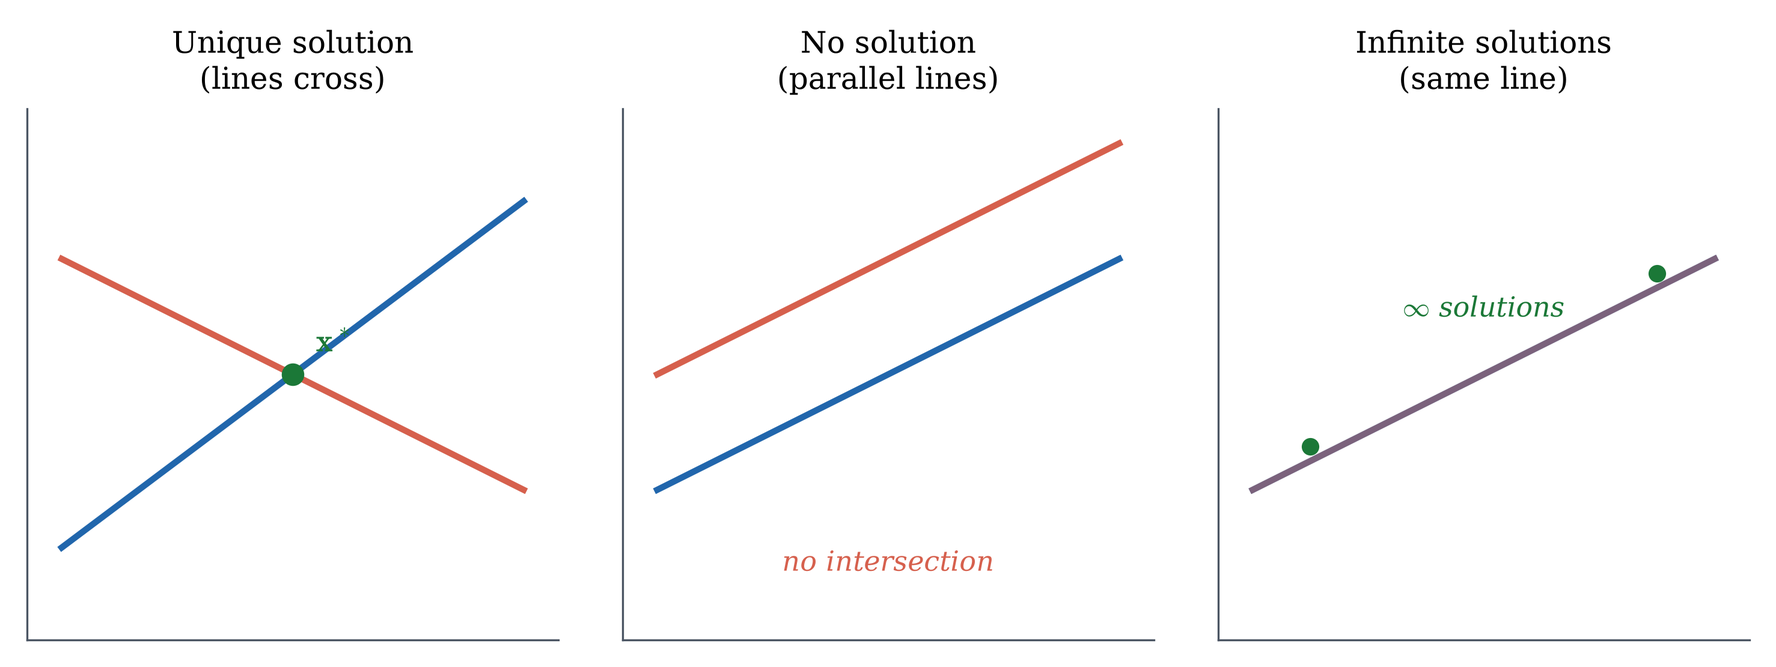
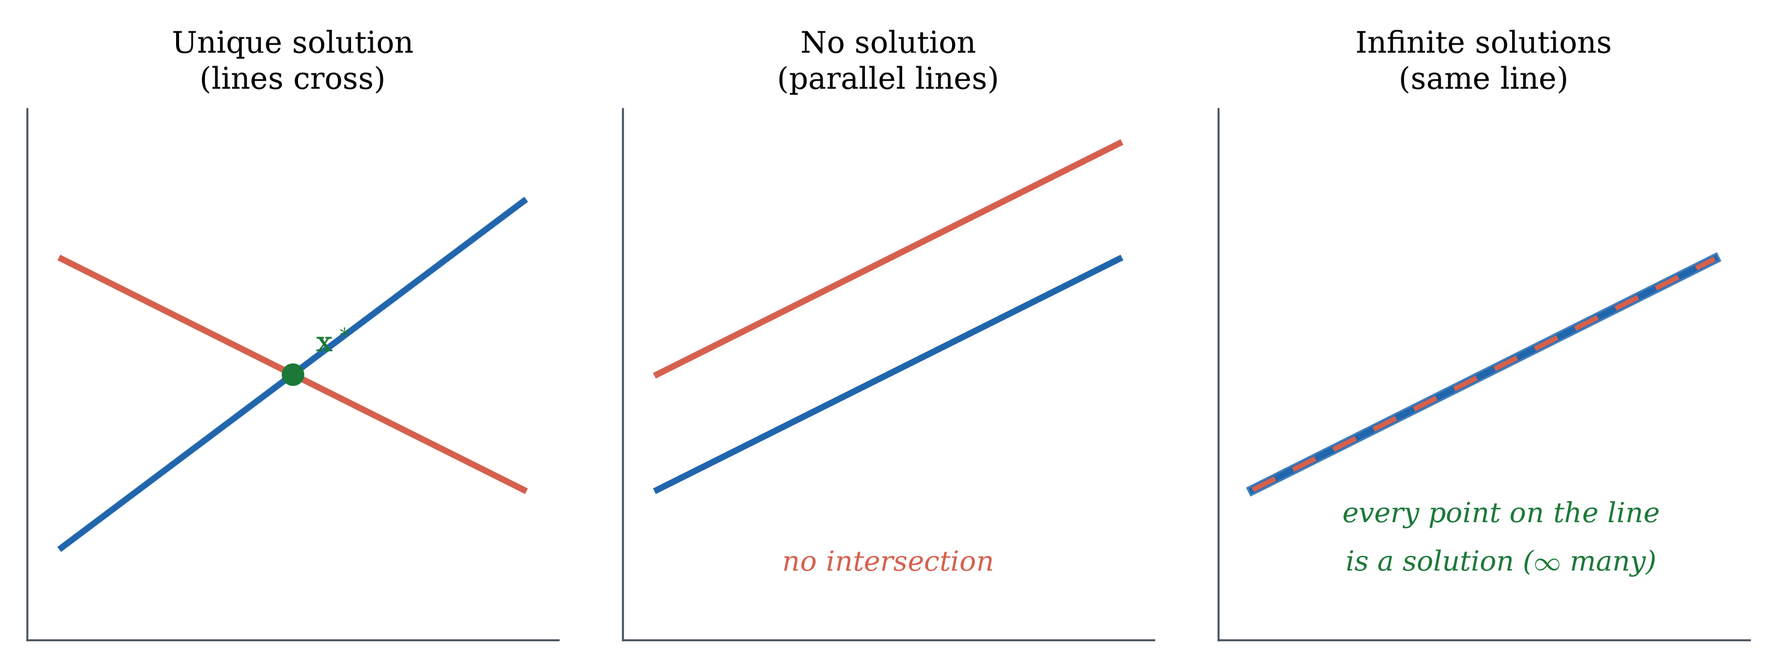
Republish Unit 2: L05 in Ax=b, L06's stability derived, two figures corrected
Instructor review of L05 and L06 slide by slide. The substance of the change is
that claims are now derived rather than stated.

L06's stability section went from four slides of assertion to nine of
computation. The 2x2 inverse formula carries it: det = 0.001, so 1/det = 1000,
so the inverse has entries near 1000 while the matrix has entries near 1; one
matrix-vector product then shows a 0.001 nudge arriving as a change of 1. The
Celsius/Fahrenheit slide previously claimed weights of +500 and -499 from
nowhere and now computes them, showing the Celsius coefficient flipping sign
while the predictions barely move.

Condition number is demoted to an EXPLORE aside. It is in MML at 7.1 p.230, but
defined through singular values from 4.5, which this course does not reach until
L07-L08; the slides had been quoting a value and a rule of thumb students had no
reading for. The mechanism is taught with the determinant instead, which lives
in Ch 2.6 where L06's reading already points.

L05 is rewritten in A x = b. It had drifted into the regression notation X w = y
from L04, which is the wrong vocabulary for a linear system, and never said what
the unknown was or why it is a single number.

Two figures were wrong, not merely unclear. The three-outcomes figure marked two
points for the infinite-solutions case, teaching "two solutions" where the answer
is a whole line, and the points were plotted 0.125 above the line they were meant
[…]

diff --git a/slides/math-for-ds-unit02.html b/slides/math-for-ds-unit02.html
@@ -88,7 +88,7 @@
 <tr><td>19</td><td>21</td><td>20</td></tr>
 </table>
 <ul>
-<li class="fragment">Written as equations: \(x = 19\), \(x = 21\), \(x = 20\). <strong>No single number satisfies all three.</strong></li>
+<li class="fragment">There is one unknown &mdash; your age. Call it \(x\). Each guess is a claim about that one number: \(x = 19\), \(x = 21\), \(x = 20\). <strong>No single number satisfies all three.</strong></li>
 <li class="fragment">You cannot be right for everyone. You can only be <strong>wrong by as little as possible</strong>.</li>
 <li class="fragment">You'd probably say <strong>the average</strong>: \(x^* = \frac{19+21+20}{3} = 20\) — the <strong>best compromise</strong>.</li>
 </ul>
@@ -679,17 +679,18 @@ DALL-E prompt for fig-2-06-schedule-conflict:
 <!-- S35: A 2×2 system — two friends, one restaurant -->
 <section>
 <h4>Example: two equations, two unknowns</h4>
-<p>You and a friend are splitting a restaurant bill. You ordered differently:</p>
+<p>You and a friend eat at the same taco place. Two receipts:</p>
 <ul>
-<li>You: 1 taco + 1 drink = $5</li>
-<li>Friend: 1 taco − 1 drink = $1 (friend paid less for just a taco)</li>
+<li>You: <strong>1 taco + 1 drink = $5</strong></li>
+<li>Friend: <strong>2 tacos + 1 drink = $8</strong></li>
 </ul>
+<p class="fragment">Let \(x\) = price of a taco, \(y\) = price of a drink. Each receipt is one equation:</p>
 <div class="fragment">
-\[\begin{cases} x + y = 5 \\ x - y = 1 \end{cases}\]
-Add: \(2x = 6 \Rightarrow x = 3\). Substitute: \(y = 2\).
+\[\begin{cases} x + y = 5 \\ 2x + y = 8 \end{cases}\]
+<p>Subtract the first from the second: \(x = 3\). Put that back: \(y = 2\).</p>
 </div>
-<p class="fragment">Taco costs $3, drink costs $2. <strong>One exact solution</strong>.</p>
-<aside class="notes">"Two equations, two unknowns — and they agree on one answer. But what if the equations conflict? That's the question we'll explore."</aside>
+<p class="fragment">Taco $3, drink $2. <strong>One exact solution.</strong></p>
+<aside class="notes">"Both lines are things you could actually be handed at a counter. Subtracting one receipt from the other cancels the drink and leaves one taco — that is elimination, and they have just done it without being told the name."</aside>
 </section>
 
 <!-- S36: Three possibilities -->
@@ -722,10 +723,14 @@ DALL-E prompt for fig-2-07-three-cases:
 <section>
 <h4>Quick check</h4>
 <div class="quickcheck">
-What if the second equation were \(x + y = 10\) instead of \(x - y = 1\)?
+A third friend orders <strong>exactly what you ordered</strong> &mdash; 1 taco + 1 drink &mdash;
+and the register charges <strong>$10</strong>.
 <br/>\(\begin{cases} x + y = 5 \\ x + y = 10 \end{cases}\)
 </div>
-<p class="fragment"><strong>No solution</strong> — \(x + y\) can't be both 5 and 10. The equations are contradictory (parallel lines).</p>
+<p class="fragment"><strong>No solution.</strong> \(x + y\) cannot be both 5 and 10.
+The same order rang up two different totals, so the two receipts contradict each other &mdash;
+parallel lines, no intersection.</p>
+<aside class="notes">"This one is worth a beat: it is not that the maths failed. The data is inconsistent, and the geometry is telling you so."</aside>
 </section>
 
 <!-- S38: Column space — what the system can produce -->
@@ -787,35 +792,87 @@ If every row of \(A\) has last entry zero, what must be true about \(\mathbf{b}\
 
 <!-- S42: Overdetermined revisited -->
 <section>
-<h4>Overdetermined systems: putting it together</h4>
-<p>Back to the age-guessing problem: \(x = 19, x = 21, x = 20\).</p>
-<div>
-\[X = \begin{bmatrix}1\\1\\1\end{bmatrix}, \quad \mathbf{y} = \begin{bmatrix}19\\21\\20\end{bmatrix}\]
-Column space = the line \((c, c, c)\). But \(\mathbf{y} = (19, 21, 20)\) is NOT on that line.
+<h4>Putting it together: writing it as \(A\mathbf{x} = \mathbf{b}\)</h4>
+<p>Back to the very first problem of this unit. Three friends guess your age: \(19,\;21,\;20\).</p>
+<div class="fragment">
+<p><strong>What is unknown?</strong> One thing &mdash; your age, \(x\).
+One unknown quantity, so \(x\) is a <strong>single number</strong>, not a vector.</p>
+<p>Each guess is a claim about that number, so each guess is one equation:</p>
+\[1\cdot x = 19,\qquad 1\cdot x = 21,\qquad 1\cdot x = 20\]
+<p>The coefficient is \(1\) every time: each friend is guessing \(x\) itself, unscaled.</p>
 </div>
-<ul>
-<li class="fragment">\(\mathbf{y}\) is <strong>outside</strong> the column space → no exact solution.</li>
-<li class="fragment">Best fit: <strong>project \(\mathbf{y}\) onto the column space</strong> → get \((20, 20, 20)\).</li>
-<li class="fragment">This is the normal equation from L04: \(x^* = 20\) (the mean).</li>
-</ul>
-<div class="key-question fragment">Column space + projection = the complete picture of least squares.</div>
-<aside class="notes">"Now we have the full story. The column space tells you what's reachable. If the target isn't reachable, project. The projection gives the best fit. The normal equation computes it. Everything from L03 and L04 snaps together."</aside>
+<div class="fragment">
+<p>Stack the coefficients into \(A\), the guesses into \(\mathbf{b}\):</p>
+\[\underbrace{A = \begin{bmatrix}1\\1\\1\end{bmatrix}}_{3\times 1},\qquad
+  \underbrace{\mathbf{b} = \begin{bmatrix}19\\21\\20\end{bmatrix}}_{3\times 1},
+  \qquad A\mathbf{x} = \mathbf{b}\]
+</div>
+<p class="fragment">\(A\) is \(3\times1\), so \(\mathbf{x}\) is \(1\times1\) &mdash; the shapes force
+what the story already said. <strong>Three equations, one unknown: overdetermined.</strong></p>
+<aside class="notes">"Why x is one number: there is one unknown thing in the world, your age. Then the shapes are forced. Keep A x = b — this is a linear system, not a prediction."</aside>
+</section>
+
+<section>
+<h4>Is the target even reachable?</h4>
+<p><strong>Recall:</strong> \(\mathrm{col}(A)\) is every vector \(A\mathbf{x}\) the system can
+produce &mdash; everything reachable, and nothing else.</p>
+<div class="fragment">
+<p>For our \(A\), one column and one unknown:</p>
+\[A\mathbf{x} = x\begin{bmatrix}1\\1\\1\end{bmatrix} = \begin{bmatrix}x\\x\\x\end{bmatrix}\]
+<p>\(\mathrm{col}(A)\) is <strong>every vector whose three entries are equal</strong> &mdash;
+a line through the origin in \(\R^3\) along \((1,1,1)\).</p>
+</div>
+<div class="key-question fragment">Is \(\mathbf{b} = (19,21,20)\) of that form?
+It would need \(19 = 21 = 20\). <strong>It is not.</strong><br>
+So \(\mathbf{b}\notin\mathrm{col}(A)\): no \(x\) satisfies all three equations.
+<em>That</em> is what "no exact solution" means here &mdash; not a rule, just three different numbers.</div>
+<aside class="notes">"Membership in the column space is checkable by eye for this A. b fails the check, so the system is inconsistent — and that is the whole reason we are about to project."</aside>
+</section>
+
+<section>
+<h4>So compute the projection &mdash; and watch what it turns out to be</h4>
+<p>The closest reachable point is the projection of \(\mathbf{b}\) onto \(\mathrm{col}(A)\).
+That is the L03 formula, with \(A\) in place of the direction vector:</p>
+<div class="fragment">
+\[A^\top A = 1+1+1 = 3,\qquad A^\top\mathbf{b} = 19+21+20 = 60\]
+\[x^* = \frac{A^\top\mathbf{b}}{A^\top A} = \frac{60}{3} = \mathbf{20}
+\qquad\Rightarrow\qquad A x^* = \begin{bmatrix}20\\20\\20\end{bmatrix}\]
+</div>
+<div class="fragment">
+<p>Residual, and the perpendicularity check:</p>
+\[\mathbf{r} = \mathbf{b} - Ax^* = \begin{bmatrix}-1\\ 1\\ 0\end{bmatrix},
+\qquad A^\top\mathbf{r} = -1+1+0 = 0\ \checkmark\]
+</div>
+<div class="key-question fragment">\(x^* = 20\) is <strong>the average of 19, 21 and 20</strong>.
+The answer everyone's intuition reached for on the first slide of this unit
+<em>is</em> the orthogonal projection onto the column space. Now it is proved, not assumed.</div>
+<aside class="notes">"This closes the loop opened in L03. Mention that minimising S(x) = sum (x - b_i)^2 and setting the derivative to zero gives 3x = 60 as well — same answer by calculus, which is the route L04 took."</aside>
 </section>
 
 <!-- S43: The normal equation — geometric meaning -->
 <section>
-<h4>The normal equation means: residual ⊥ column space</h4>
-<div class="mathbox">
-\[X^\top(X\mathbf{w} - \mathbf{y}) = \mathbf{0}\]
-This says: the residual \(\mathbf{y} - X\mathbf{w}\) is perpendicular to every column of \(X\).
+<h4>That check you just did has a name &mdash; you already met it</h4>
+<p>You verified \(A^\top\mathbf{r} = 0\) as a sanity check. That is not a coincidence.
+Substitute \(\mathbf{r} = \mathbf{b} - A\mathbf{x}\):</p>
+\[A^\top(\mathbf{b} - A\mathbf{x}) = \mathbf{0}
+\qquad\Longleftrightarrow\qquad A^\top A\,\mathbf{x} = A^\top\mathbf{b}\]
+<div class="fragment">
+<p>In <strong>L04</strong> we derived the same equation, written in the regression names:
+\(X^\top X\mathbf{w} = X^\top\mathbf{y}\). Same object, two vocabularies:</p>
+<table style="margin:0.4em auto; border-collapse:collapse">
+<tr><td style="padding:3px 14px"><strong>solving a system</strong></td>
+    <td style="padding:3px 14px">\(A\mathbf{x} = \mathbf{b}\)</td>
+    <td style="padding:3px 14px">\(A\) = coefficients, \(\mathbf{x}\) = unknowns, \(\mathbf{b}\) = targets</td></tr>
+<tr><td style="padding:3px 14px"><strong>fitting a model</strong></td>
+    <td style="padding:3px 14px">\(X\mathbf{w} = \mathbf{y}\)</td>
+    <td style="padding:3px 14px">\(X\) = data, \(\mathbf{w}\) = weights, \(\mathbf{y}\) = observations</td></tr>
+</table>
 </div>
-<img src="../images/unit02/u2-L05-fig09-column-space-projection.png" alt="Column space projection in 3D" style="float:right; max-height:400px; max-width:45%; margin:0 0 0.5em 1em; border-radius:6px;">
-<ul>
-<li class="fragment" style="clear:none;">The residual has <strong>no component</strong> the model could explain.</li>
-<li class="fragment">Everything the model <em>can</em> do, it <em>has</em> done.</li>
-<li class="fragment">The leftover is pure noise — perpendicular to the model's reach.</li>
-</ul>
-<aside class="notes" style="clear:both;">"This is a beautiful result. The normal equation isn't just a formula — it's a geometric statement. It says: the best model uses up all its explanatory power. Whatever's left over is noise that no linear model can reduce."</aside>
+<div class="key-question fragment">We came back to it because <em>column space</em> is what L04 was missing.
+There we could write \(A^\top\mathbf{r} = 0\) but not say what \(\mathbf{r}\) was perpendicular
+<strong>to</strong>. Now we can: to everything the system can produce.
+The residual is the part of \(\mathbf{b}\) no choice of \(\mathbf{x}\) can reach.</div>
+<aside class="notes">"Say out loud that this is a return, not a new topic, and put the two notations side by side once — students hit both in the book and in every course after this one."</aside>
 </section>
 
 <!--
@@ -935,33 +992,91 @@ If \(\mathbf{b}\) lies in the column space of \(A\), what does \(A^+\mathbf{b}\)
 
 <!-- S52: When formulas break — nearly dependent columns -->
 <section>
-<h4>The stability problem</h4>
-<p>Consider two features that are <em>almost</em> identical:</p>
-<div>
+<h4>Why "almost identical columns" is a problem &mdash; compute it</h4>
+<p>Two features that are almost the same thing:</p>
 \[X = \begin{bmatrix} 1 & 1 \\ 1 & 1.001 \end{bmatrix}\]
-The columns are 99.9% the same. What happens?
+<p class="fragment">You already know the 2&times;2 inverse:
+\(\begin{bmatrix} a & b \\ c & d\end{bmatrix}^{-1} = \dfrac{1}{ad-bc}\begin{bmatrix} d & -b \\ -c & a\end{bmatrix}\)</p>
+<div class="fragment">
+\[\det X = (1)(1.001) - (1)(1) = \mathbf{0.001}\]
+\[X^{-1} = \frac{1}{0.001}\begin{bmatrix}1.001 & -1\\ -1 & 1\end{bmatrix}
+        = \begin{bmatrix}1001 & -1000\\ -1000 & 1000\end{bmatrix}\]
 </div>
-<ul>
-<li class="fragment">\(X^\top X\) is <strong>nearly singular</strong> — almost has determinant zero.</li>
-<li class="fragment">Change one data point by 0.001 → the solution moves <strong>1000&times; as far</strong>. Concretely: \(\mathbf{x}\) goes from \((1,1)\) to \((0,2)\), a shift of 1 in each entry from a nudge of 0.001.</li>
-<li class="fragment">The formula is <em>correct</em> but <strong>unreliable</strong>.</li>
-</ul>
-<div class="key-question fragment">A correct formula can still give garbage if the inputs are nearly dependent.</div>
-<aside class="notes">"This is like weighing yourself on a scale that changes by 10 pounds every time you shift your foot slightly. The scale is correct — it's just amplifying tiny differences. The same thing happens when your features are almost identical: the formula amplifies noise instead of finding a stable answer."</aside>
+<p class="fragment"><strong>Every entry of \(X\) is about 1. Every entry of \(X^{-1}\) is about 1000.</strong>
+That \(1/\det\) out front is the entire story.</p>
+<aside class="notes">"Nothing new here — this is the 2x2 inverse from high school. The point is where the thousand comes from: it is 1/0.001. Nearly identical columns make the determinant nearly zero, and one over nearly zero is huge."</aside>
+</section>
+
+<section>
+<h4>Watch one nudge travel through</h4>
+<p>Start from the answer \(\mathbf{x} = (1,1)\), so the data is</p>
+\[\mathbf{b} = X\mathbf{x} = (1+1,\; 1+1.001) = (2,\; 2.001)\]
+<p class="fragment">Now measure the second value slightly wrong &mdash; off by \(0.001\):</p>
+<div class="fragment">
+\[\Delta\mathbf{b} = \begin{bmatrix}0\\0.001\end{bmatrix},\qquad
+\Delta\mathbf{x} = X^{-1}\Delta\mathbf{b}
+= \begin{bmatrix}1001 & -1000\\ -1000 & 1000\end{bmatrix}\begin{bmatrix}0\\0.001\end{bmatrix}
+= \begin{bmatrix}-1\\ +1\end{bmatrix}\]
+</div>
+<p class="fragment">\(\mathbf{x}\) goes from \((1,1)\) to \(\mathbf{(0,2)}\).</p>
+<div class="key-question fragment">The input moved by <strong>0.001</strong>. The answer moved by <strong>1</strong>.
+That factor of 1000 is not a coincidence &mdash; it is \(1/\det X\).</div>
+<aside class="notes">"Do this multiplication with them on the board. It is one matrix times one vector. The 1000 in the answer is the same 1000 they just computed in the inverse."</aside>
+</section>
+
+<section>
+<h4>So why do we look at \(X^\top X\)?</h4>
+<p>With real data \(X\) is <em>tall</em> &mdash; there is no \(X^{-1}\). Least squares inverts
+\(X^\top X\) instead: \(\;\mathbf{x}^* = (X^\top X)^{-1}X^\top\mathbf{b}\).</p>
+<div class="fragment">
+\[X^\top X = \begin{bmatrix}2 & 2.001\\ 2.001 & 2.002001\end{bmatrix}\]
+\[\det(X^\top X) = (2)(2.002001) - (2.001)^2 = 4.004002 - 4.004001 = \mathbf{0.000001}\]
+</div>
+<p class="fragment">That is no accident: \(\det(X^\top X) = (\det X)^2 = (0.001)^2 = 10^{-6}\).</p>
+<div class="key-question fragment"><strong>Squaring the matrix squares the smallness of the determinant.</strong>
+\(0.001 \to 10^{-6}\): the thousand becomes a million.</div>
+<p class="fragment">The formula is <strong>correct</strong>. It is <strong>unreliable</strong> &mdash; and now you can see exactly where the unreliability enters.</p>
+<aside class="notes">"This answers the question a sharp student asks: why are we suddenly looking at X-transpose-X? Because that is the matrix least squares actually has to invert, and it carries the square of the problem."</aside>
 </section>
 
 <!-- S53: Real-world example of instability -->
 <section>
-<h4>Real-world instability</h4>
-<img src="../images/unit02/u2-L06-fig11-multicollinearity.png" alt="Multicollinearity: correlated features cause instability" style="float:right; max-height:350px; max-width:45%; margin:0 0 0.5em 1em; border-radius:6px;">
-<p>Imagine predicting house prices using:</p>
-<ul>
-<li>Feature 1: temperature in °C</li>
-<li>Feature 2: temperature in °F</li>
-</ul>
-<p class="fragment">These are linearly related: \(F = 1.8C + 32\). The columns of \(X\) are almost proportional.</p>
-<div class="applied fragment" style="clear:both;">Result: the normal equation produces weights like \(w_1 = +500, w_2 = -499\). The individual weights are <strong>meaningless</strong> — only their combination matters. Tiny noise → wildly different \(w_1, w_2\) values.</div>
-<aside class="notes">"This is called multicollinearity in statistics. It doesn't mean the prediction is bad — it means the individual weights can't be trusted. The model can't tell which feature is doing the work because they carry almost the same information."</aside>
+<h4>Real data does this to you: &deg;C and &deg;F</h4>
+<p>Predict something from temperature, and you record it twice &mdash; once in Celsius, once in Fahrenheit:</p>
+\[X = \begin{bmatrix} 1 & 12 & 53.6\\ 1 & 18 & 64.4\\ 1 & 25 & 77.0\\ 1 & 31 & 87.8\end{bmatrix}
+\qquad \mathbf{y} = \begin{bmatrix}2.1\\2.6\\3.4\\3.9\end{bmatrix}\]
+<p class="fragment">Because \(F = 1.8\,C + 32\), the third column is built from the other two:</p>
+<div class="fragment">
+\[\text{col}_3 = 32\cdot\text{col}_1 + 1.8\cdot\text{col}_2\]
+<p>Check the first row: \(32(1) + 1.8(12) = 32 + 21.6 = 53.6\). ✓ &nbsp; It holds for every row.</p>
+</div>
+<p class="fragment"><strong>The third feature carries no new information.</strong>
+\(\det(X^\top X) \approx 10^{-11}\) &mdash; singular for all practical purposes.</p>
+<aside class="notes">"Nobody sets out to add a useless column. You add temperature, someone else adds it in the other unit, and now your matrix is singular and nothing warns you."</aside>
+</section>
+
+<section>
+<h4>What that costs you &mdash; run it and see</h4>
+<p>Solve the normal equation as written:</p>
+\[\mathbf{w} = (0.913,\; 0.097,\; 0.000)\]
+<p class="fragment">Now change <em>one</em> Fahrenheit reading by <strong>0.1 of a degree</strong> &mdash;
+less than the width of a thermometer mark &mdash; and solve again:</p>
+<div class="fragment">
+\[\mathbf{w} = (-22.106,\; -1.189,\; +0.717)\]
+<p>The Celsius coefficient went from \(+0.097\) to \(-1.189\). It <strong>changed sign</strong>.</p>
+</div>
+<div class="fragment">
+<p>But look at what the two models actually <em>predict</em>:</p>
+\[\begin{array}{lcccc}
+\text{before} & 2.08 & 2.66 & 3.34 & 3.92\\
+\text{after}  & 2.10 & 2.63 & 3.33 & 3.94\\
+\hline
+\mathbf{y}    & 2.1 & 2.6 & 3.4 & 3.9
+\end{array}\]
+</div>
+<div class="key-question fragment">Both fit the data equally well. <strong>The predictions are pinned down; the individual
+weights are not.</strong> Never read a coefficient from a model whose columns are nearly dependent.</div>
+<aside class="notes">"This is the punchline of the whole lecture. The model is fine. The number you wanted to interpret is not."</aside>
 </section>
 
 <!--
@@ -971,45 +1086,72 @@ DALL-E prompt for fig-2-10-redundant-features:
 
 <!-- S54: The condition number -->
 <section>
-<h4>Condition number: how fragile is the system?</h4>
-<div class="mathbox">
-The <strong>condition number</strong> \(\kappa(A)\) measures how much small changes in data get amplified in the solution.
-<ul style="margin-top:0.5em;">
-<li>\(\kappa \approx 1\): stable — small changes in data → small changes in solution.</li>
-<li>\(\kappa \gg 1\): unstable — small changes in data → <strong>huge</strong> changes in solution.</li>
-</ul>
+<h4><span style="opacity:.6;font-size:.8em">EXPLORE &mdash; not examinable</span><br>This problem has a name</h4>
+<p>What we measured with \(\det\) has a standard measure called the
+<strong>condition number</strong> \(\kappa(A)\): how much a small change in the data
+can be amplified in the answer.</p>
+<div class="fragment">
+<p>MML defines it in <strong>&sect;7.1, p.230</strong>:</p>
+\[\kappa(A) = \frac{\sigma_{\max}(A)}{\sigma_{\min}(A)}\]
+<p>&mdash; a ratio of <em>singular values</em>, which we meet in <strong>L07&ndash;L08</strong>.
+So the definition is genuinely ahead of us today.</p>
 </div>
-<ul>
-<li class="fragment">Our \(X = \begin{bmatrix}1&1\\1&1.001\end{bmatrix}\) has \(\kappa \approx 4000\).</li>
-<li class="fragment">An error of 0.001 in the data could cause an error of \(0.001 \times 4000 = 4\) in the solution.</li>
-</ul>
-<div class="applied fragment">In Python: <code>np.linalg.cond(A)</code> tells you if you should worry. Condition number &gt; 1000? Be cautious.</div>
-<aside class="notes">"Think of the condition number as a sensitivity dial. Low condition number means the formula is trustworthy. High condition number means proceed with caution — the answer might change a lot if you measure slightly differently."</aside>
+<p class="fragment">Everything we needed this lecture, we got from \(\det\) and the \(2\times2\) inverse.
+The name is here so you recognise it when it returns in <strong>Week 8</strong>, where MML puts it.</p>
+<aside class="notes">"Say plainly: this is a real concept, it is in your book, and its definition needs machinery we do not have yet. We are not skipping it, we are sequencing it. In Python np.linalg.cond(A) computes it, and after L08 you will know what it is computing."</aside>
 </section>
 
 <!-- S55: What to do about instability -->
 <section>
-<h4>Three fixes for instability</h4>
+<h4>Three fixes &mdash; and what each one actually changes</h4>
+<p>The disease is always the same: \(\det(X^\top X)\) sits too close to zero,
+so \((X^\top X)^{-1}\) has enormous entries. Each fix attacks that directly.</p>
 <ol>
-<li class="fragment"><strong>Remove redundant features</strong> — if two columns are nearly identical, drop one.
-<div class="small-note">Check with <code>np.corrcoef()</code> — correlation near ±1 means redundancy.</div></li>
-<li class="fragment"><strong>Use better algorithms</strong> — QR decomposition instead of forming \(X^\top X\).
-<div class="small-note">This is what <code>np.linalg.lstsq</code> does internally — more numerically stable.</div></li>
-<li class="fragment"><strong>Add regularization</strong> — penalize large weights to keep them stable.
-<div class="small-note">Coming in Unit 5: Ridge and Lasso regression.</div></li>
+<li class="fragment"><strong>Drop one of the dependent columns.</strong> Delete &deg;F and keep &deg;C.
+You lose nothing &mdash; the column carried no information &mdash; and the determinant is no longer near zero.</li>
+<li class="fragment"><strong>Ridge: solve \((X^\top X + \lambda I)\mathbf{w} = X^\top\mathbf{y}\).</strong>
+Adding \(\lambda\) down the diagonal pushes the determinant away from zero.</li>
+<li class="fragment"><strong>Never form \(X^\top X\) at all</strong> (QR or SVD, what
+<code>np.linalg.lstsq</code> uses). If you do not square the matrix, you do not square the problem.</li>
 </ol>
-<div class="key-question fragment">The normal equation is the <em>starting point</em>, not the final tool. Real AI uses smarter methods — but they all solve the same projection problem.</div>
-<aside class="notes">"You won't need to implement QR decomposition by hand. But you should know it exists, and you should always check the condition number before trusting the normal equation. In practice, sklearn handles this for you — but understanding why it matters makes you a better data scientist."</aside>
+<aside class="notes">"Three fixes, one target. Ask the class which one they would reach for with the temperature data — dropping the column is obviously right there, and that is the point: the fix depends on why the columns are dependent."</aside>
 </section>
 
-<!-- S56: Quick check — stability -->
 <section>
-<h4>Quick check</h4>
+<h4>Why ridge works &mdash; watch the determinant</h4>
+<p>Our \(X^\top X = \begin{bmatrix}2 & 2.001\\ 2.001 & 2.002001\end{bmatrix}\), with \(\det = 10^{-6}\).
+Add \(\lambda\) down the diagonal and recompute:</p>
+<table style="margin:0.5em auto; border-collapse:collapse; font-size:0.95em">
+<tr><th style="padding:4px 20px">\(\lambda\)</th><th style="padding:4px 20px">\(\det(X^\top X+\lambda I)\)</th><th style="padding:4px 20px">size of the inverse</th></tr>
+<tr><td style="text-align:center">0</td><td style="text-align:center">\(10^{-6}\)</td><td style="text-align:center">4,000,000</td></tr>
+<tr class="fragment"><td style="text-align:center">0.001</td><td style="text-align:center">0.004</td><td style="text-align:center">1,000</td></tr>
+<tr class="fragment"><td style="text-align:center">0.01</td><td style="text-align:center">0.040</td><td style="text-align:center">100</td></tr>
+<tr class="fragment"><td style="text-align:center">0.1</td><td style="text-align:center">0.410</td><td style="text-align:center">10</td></tr>
+</table>
+<div class="key-question fragment"><strong>Ten times more \(\lambda\), ten times smaller inverse.</strong>
+That is the entire mechanism &mdash; and the cost is that you are no longer solving the original problem.
+Choosing \(\lambda\) is the trade, and it comes back in <strong>L19</strong>.</div>
+<aside class="notes">"Do the lambda = 0.001 row with them. The diagonal goes from 2 and 2.002001 to 2.001 and 2.003001, and the determinant jumps four-thousand-fold. Nothing subtle is happening — it is the 2x2 determinant they already know."</aside>
+</section>
+
+<section>
+<h4>Quick check &mdash; and its proof</h4>
 <div class="quickcheck">
-If two columns of \(X\) are <em>exactly</em> identical (not just close), what happens to \(X^\top X\)?
+Two columns of \(X\) are <strong>exactly</strong> identical &mdash; the same feature entered twice.
+What happens to \(X^\top X\), and why?
 </div>
-<p class="fragment"><strong>It becomes singular</strong> — determinant is zero, no inverse exists. The normal equation has no unique solution.</p>
-<div class="applied fragment">This is the extreme case of instability. Nearly identical = unstable. Exactly identical = formula doesn't work at all. The pseudoinverse still gives <em>a</em> solution (minimum norm), but the weights are not interpretable.</div>
+<div class="fragment">
+<p><strong>It is singular.</strong> Here is the whole argument, in two lines.</p>
+<p>If columns \(i\) and \(j\) are equal, take \(\mathbf{v}\) with \(+1\) in slot \(i\), \(-1\) in slot \(j\),
+zeros elsewhere. Then \(X\mathbf{v}\) is (column \(i\)) minus (column \(j\)) \(= \mathbf{0}\).</p>
+\[X^\top X\mathbf{v} = X^\top(X\mathbf{v}) = X^\top\mathbf{0} = \mathbf{0}\]
+<p>So a <em>non-zero</em> \(\mathbf{v}\) is killed by \(X^\top X\). A matrix with something non-zero
+in its null space cannot be inverted. \(\blacksquare\)</p>
+</div>
+<p class="fragment">Nearly identical columns are the same argument with \(\approx\) in place of \(=\):
+\(X\mathbf{v}\) is not zero but is tiny, so \(\det\) is not zero but is tiny &mdash;
+which is exactly the case we spent this lecture computing.</p>
+<aside class="notes">"This is the cleanest proof in the lecture and it takes one minute. Ask them to produce v for a concrete 3x2 matrix before showing it."</aside>
 </section>
 
 <!-- S57: L06 takeaways -->
